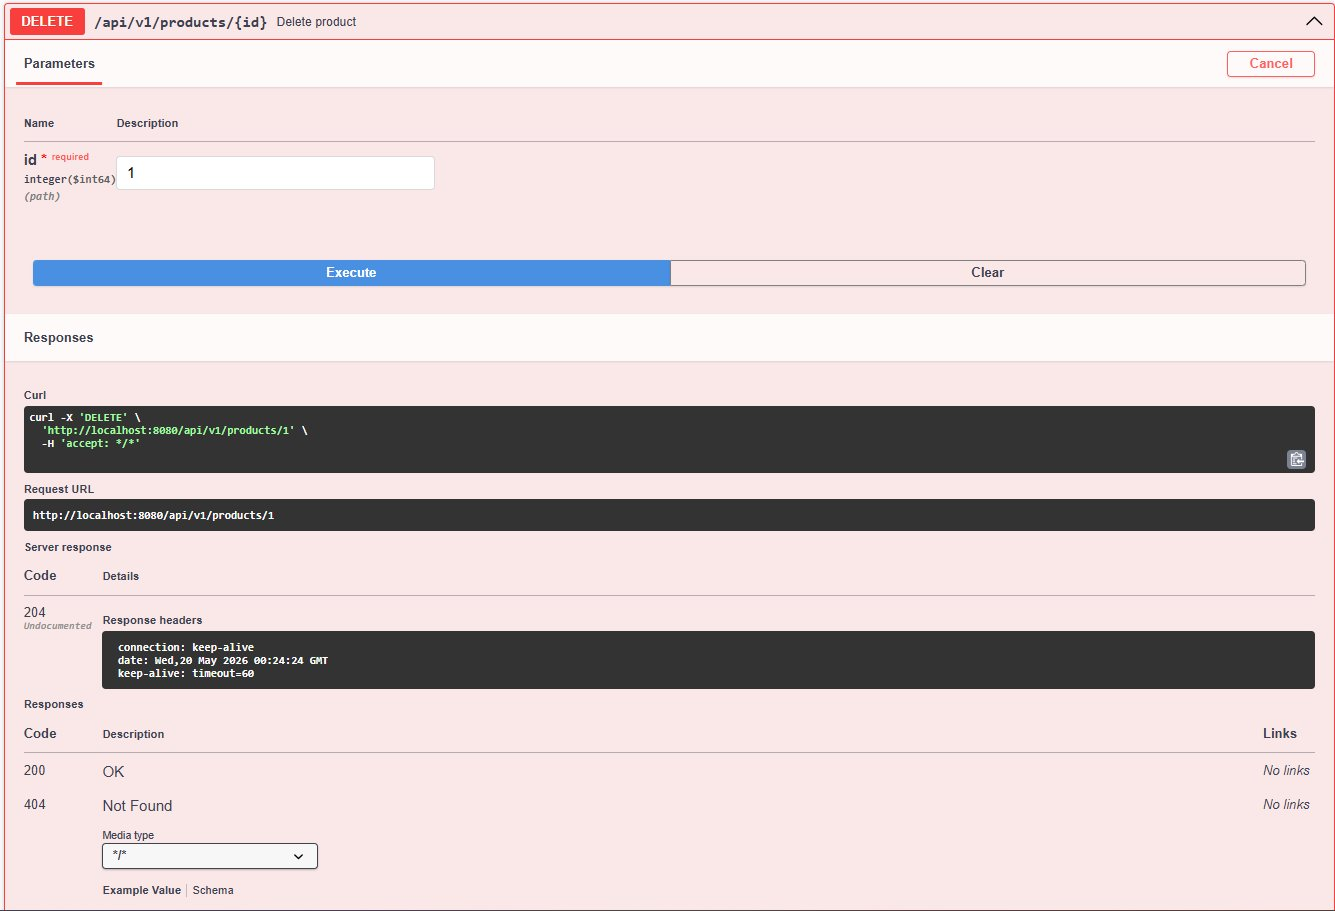
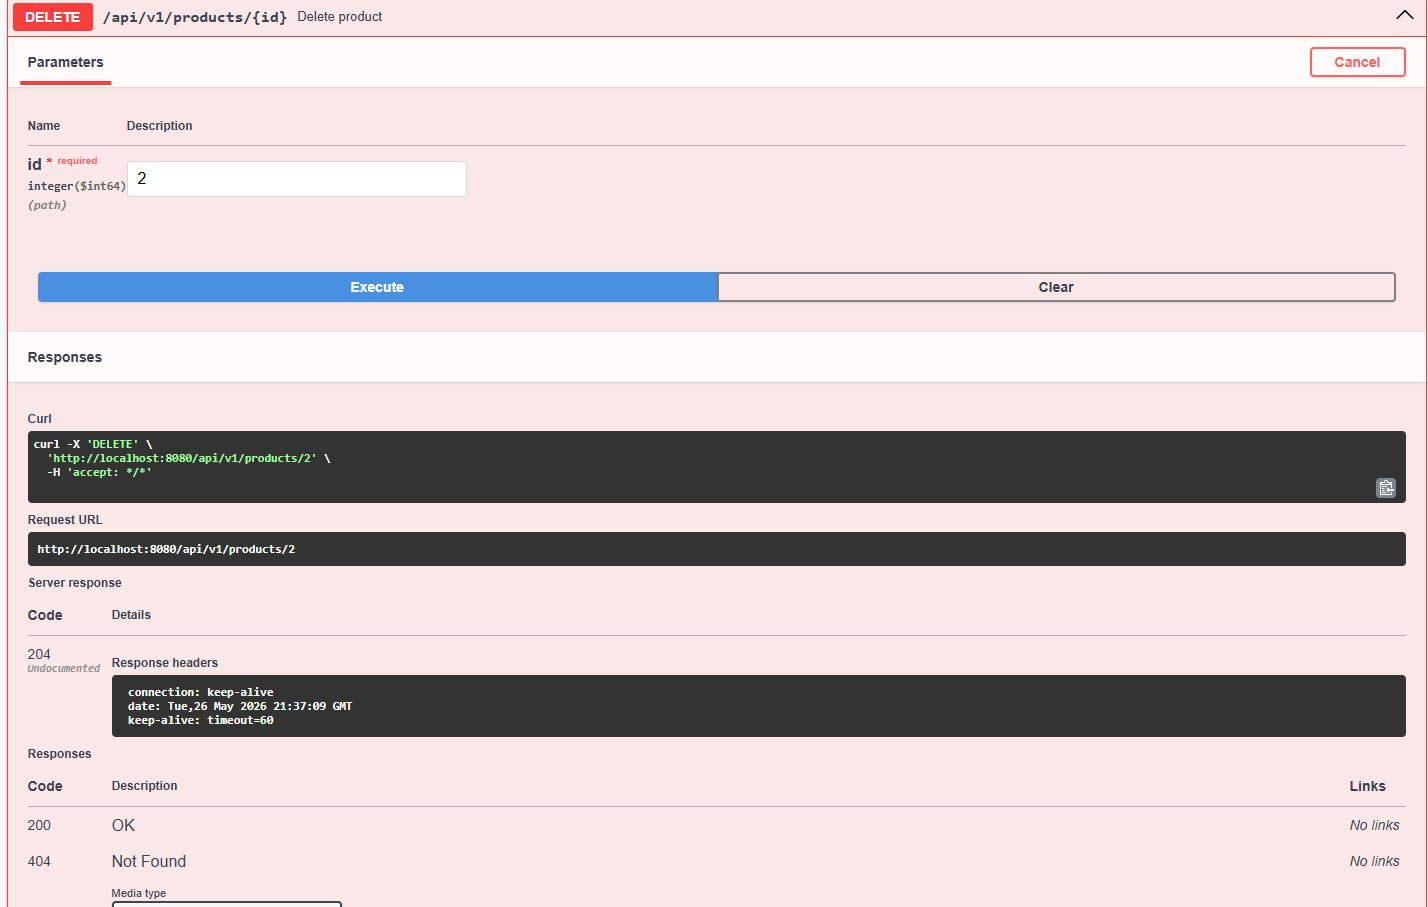
readme update

diff --git a/src/main/java/pl/edu/vistula/firstrestapispring/product/service/ProductService.java b/src/main/java/pl/edu/vistula/firstrestapispring/product/service/ProductService.java
@@ -9,6 +9,9 @@ import pl.edu.vistula.firstrestapispring.product.repository.ProductRepository;
 import pl.edu.vistula.firstrestapispring.product.support.ProductMapper;
 import pl.edu.vistula.firstrestapispring.product.support.exception.ProductExceptionSupplier;
 
+import java.util.List;
+import java.util.stream.Collectors;
+
 @Service
 public class ProductService {
 
@@ -43,5 +46,7 @@ public class ProductService {
         );
         productRepository.deleteById(product.getId());
     }
-
+    public List<ProductResponse> findAll(){
+        return productRepository.findAll().stream().map(productMapper::toProductResponse).collect(Collectors.toList());
+    }
 }

diff --git a/src/main/java/pl/edu/vistula/firstrestapispring/product/api/ProductController.java b/src/main/java/pl/edu/vistula/firstrestapispring/product/api/ProductController.java
@@ -40,5 +40,10 @@ public class ProductController {
         productService.delete(id);
         return ResponseEntity.status(HttpStatus.NO_CONTENT).build();
     }
-
+    @GetMapping
+    @io.swagger.v3.oas.annotations.Operation(summary = "Find all products")
+    public ResponseEntity<java.util.List<ProductResponse>> findAll() {
+        java.util.List<ProductResponse> productResponses = productService.findAll();
+        return ResponseEntity.status(HttpStatus.OK).body(productResponses);
+    }
 }

diff --git a/README.md b/README.md
@@ -11,11 +11,11 @@ This project was created as part of the Spring Framework course at Akademia Fina
 - [Project Structure](#project-structure)
 - [How to Run](#how-to-run)
 - [API Endpoints](#api-endpoints)
-  - [POST – Create a Product](#1-post--create-a-product)
-  - [GET – Find Product by ID](#2-get--find-product-by-id)
-  - [GET – Find All Products](#3-get--find-all-products)
-  - [PUT – Update a Product](#4-put--update-a-product)
-  - [DELETE – Delete a Product](#5-delete--delete-a-product)
+    - [POST – Create a Product](#1-post--create-a-product)
+    - [GET – Find Product by ID](#2-get--find-product-by-id)
+    - [GET – Find All Products](#3-get--find-all-products)
+    - [PUT – Update a Product](#4-put--update-a-product)
+    - [DELETE – Delete a Product](#5-delete--delete-a-product)
 - [Exception Handling](#exception-handling)
 - [Swagger UI](#swagger-ui)
 - [H2 Database Console](#h2-database-console)
@@ -101,9 +101,9 @@ Base URL: `http://localhost:8080/api/v1/products`
 
 All requests and responses use **JSON format**.
 
-All available endpoints are visible in Swagger UI:
+All available endpoints visible in Swagger UI:
 
-![Swagger UI Overview](images/swagger-overview.png)
+![Swagger UI Overview](images/swagger-overview-new.png)
 
 ---
 
@@ -116,7 +116,7 @@ All available endpoints are visible in Swagger UI:
 **Request body:**
 ```json
 {
-  "name": "First product"
+  "name": "one"
 }
 ```
 
@@ -124,11 +124,13 @@ All available endpoints are visible in Swagger UI:
 ```json
 {
   "id": 1,
-  "name": "First product"
+  "name": "one"
 }
 ```
 
-> 📸 *Screenshot: test this endpoint using the POST section in Swagger UI (`/api/v1/products`) by clicking "Try it out", entering the request body, and clicking Execute.*
+After creating 4 products (one, two, three, four), the H2 database shows:
+
+![H2 After POST - 4 products](images/h2-before-update.png)
 
 ---
 
@@ -172,14 +174,17 @@ GET http://localhost:8080/api/v1/products
 ```json
 [
   { "id": 1, "name": "one" },
-  { "id": 2, "name": "twoAfterUpdate" },
+  { "id": 2, "name": "two" },
   { "id": 3, "name": "three" },
-  { "id": 4, "name": "four" },
-  { "id": 5, "name": "five" }
+  { "id": 4, "name": "four" }
 ]
 ```
 
 > If no products exist, an empty list `[]` is returned — no exception is thrown.
+
+**GET all products tested in Swagger UI (200 OK):**
+
+![GET All Products - 200 OK](images/get-all-200.png)
 
 ---
 
@@ -191,28 +196,32 @@ GET http://localhost:8080/api/v1/products
 
 **Example request:**
 ```
-PUT http://localhost:8080/api/v1/products/1
+PUT http://localhost:8080/api/v1/products/2
 ```
 
 **Request body:**
 ```json
 {
-  "name": "one",
-  "id": 1
+  "name": "two after update",
+  "id": 2
 }
 ```
 
 **Response body:**
 ```json
 {
-  "id": 1,
-  "name": "one"
+  "id": 2,
+  "name": "two after update"
 }
 ```
 
 **PUT request tested in Swagger UI (200 OK):**
 
 ![PUT Update - 200 OK](images/put-update-200.png)
+
+**H2 database after the update — product id=2 name changed to "two after update":**
+
+![H2 After PUT Update](images/h2-after-update.png)
 
 ---
 
@@ -224,14 +233,18 @@ PUT http://localhost:8080/api/v1/products/1
 
 **Example request:**
 ```
-DELETE http://localhost:8080/api/v1/products/1
+DELETE http://localhost:8080/api/v1/products/2
 ```
 
 **Response:** No body is returned. Status `204 No Content` confirms the deletion.
 
 **DELETE request tested in Swagger UI (204 No Content):**
 
-![DELETE - 204 No Content](images/delete-204.png)
+![DELETE - 204 No Content](images/delete-204-new.png)
+
+**H2 database after DELETE — product id=2 is gone, only 3 rows remain:**
+
+![H2 After DELETE](images/h2-after-delete.png)
 
 ---
 
@@ -251,7 +264,7 @@ GET http://localhost:8080/api/v1/products/7
 }
 ```
 
-This is handled by the `ProductExceptionAdvisor` class annotated with `@ControllerAdvice`, which catches `ProductNotFoundException` and returns the proper HTTP status and error message.
+This is handled by the `ProductExceptionAdvisor` class annotated with `@ControllerAdvice`, which catches `ProductNotFoundException` and returns the correct HTTP status and error message.
 
 **404 error response shown in Swagger UI:**
 
@@ -267,11 +280,11 @@ Swagger UI provides an interactive interface to view and test all API endpoints 
 
 All available endpoints are listed under the `product-controller` section:
 
-![Swagger UI Overview](images/swagger-overview.png)
+![Swagger UI Overview](images/swagger-overview-new.png)
 
 Features:
-- All 5 endpoints visible (GET, PUT, DELETE, POST)
-- Request/response schemas (`ProductRequest`, `ProductResponse`)
+- All 5 endpoints visible (GET by id, PUT, DELETE, GET all, POST)
+- Request/response schemas (`ProductRequest`, `UpdateProductRequest`, `ProductResponse`, `ErrorMessageResponse`)
 - Ability to execute requests directly from the browser using "Try it out"
 
 **Raw API docs (JSON format):**  
@@ -303,16 +316,23 @@ After logging in, you can run SQL queries directly against the database:
 SELECT * FROM PRODUCTS;
 ```
 
-**H2 Console showing product data after testing all endpoints:**
+**H2 Console after creating 4 products:**
 
-![H2 Console Data](images/h2-data.png)
+![H2 After POST](images/h2-before-update.png)
 
-The table shows 5 products — note that product with id=2 has name `twoAfterUpdate`, which confirms the PUT (update) endpoint worked correctly.
+**H2 Console after updating product id=2:**
+
+![H2 After PUT](images/h2-after-update.png)
+
+**H2 Console after deleting product id=2:**
+
+![H2 After DELETE](images/h2-after-delete.png)
 
 ---
 
 ## Author
 
-**[Jasmeen Kaur]**  
+**Jasmeen Kaur**  
 Vistula University  
+
 
